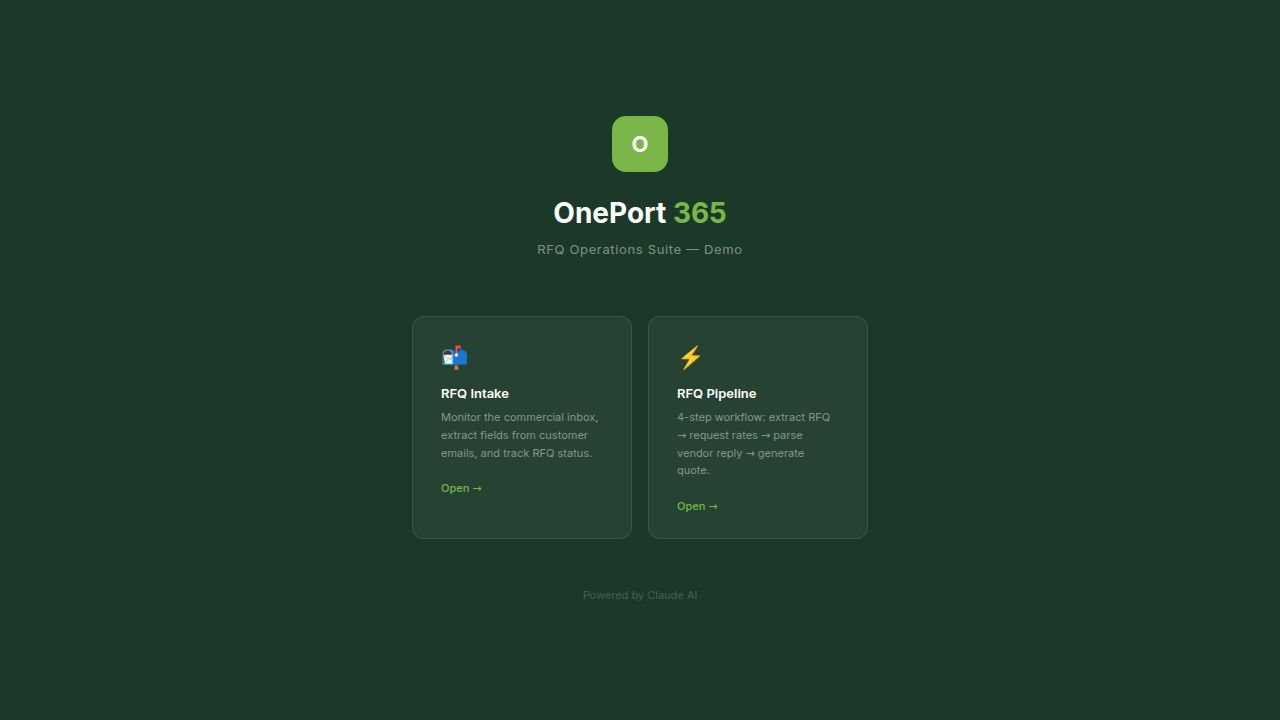
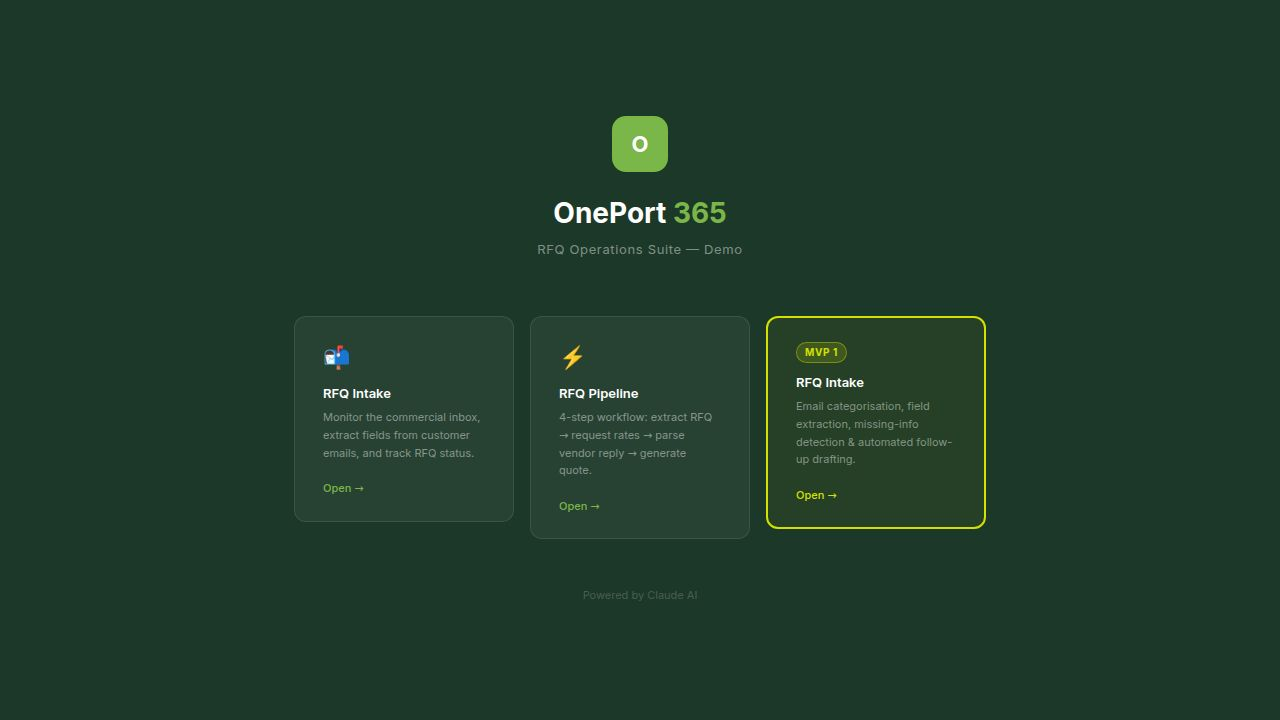
Remove WhatsApp functionality from the RFQ intake screen
Removes the WhatsApp sub-tab and its associated panel from the `mvp1.html` file, streamlining the RFQ intake process to focus solely on email.

Replit-Commit-Author: Agent
Replit-Commit-Session-Id: 79308cd2-2ce2-4007-aba9-8736e2c88821
Replit-Commit-Checkpoint-Type: full_checkpoint
Replit-Commit-Event-Id: e4b37c88-a475-481b-830e-7d197740af4b
Replit-Commit-Screenshot-Url: https://storage.googleapis.com/screenshot-production-us-central1/84b234a3-4863-4cd3-836d-2379e2e94260/79308cd2-2ce2-4007-aba9-8736e2c88821/TV8fpdU
Replit-Helium-Checkpoint-Created: true

diff --git a/artifacts/oneport365/public/mvp1.html b/artifacts/oneport365/public/mvp1.html
@@ -277,14 +277,6 @@ tr.trow.sel td{background:#eef6e6}
       <div style="display:flex;flex-direction:column;flex:1;min-height:0;overflow:hidden;width:100%">
 
         <!-- SUB-TABS -->
-        <div style="background:#fff;border-bottom:1px solid #e4e8e4;display:flex;align-items:center;padding:0 16px;gap:0;flex-shrink:0">
-          <div id="sub-email" onclick="showRFQSub('email')" style="padding:0 16px;height:38px;display:flex;align-items:center;gap:7px;font-size:12px;font-weight:600;color:#5a9132;cursor:pointer;border-bottom:2px solid #7AB648;white-space:nowrap">
-            ✉ Email <span style="font-size:10px;padding:1px 6px;border-radius:10px;background:#7AB648;color:#fff;font-weight:600">3</span>
-          </div>
-          <div id="sub-whatsapp" onclick="showRFQSub('whatsapp')" style="padding:0 16px;height:38px;display:flex;align-items:center;gap:7px;font-size:12px;font-weight:500;color:#8a9e8a;cursor:pointer;border-bottom:2px solid transparent;white-space:nowrap">
-            <span style="color:#25D366">●</span> WhatsApp <span style="font-size:10px;padding:1px 6px;border-radius:10px;background:rgba(0,0,0,.07);color:#4a5e4a;font-weight:600">5</span>
-          </div>
-        </div>
 
         <!-- EMAIL SUB-PANEL -->
         <div id="rfq-sub-email" style="display:flex;flex:1;min-height:0;overflow:hidden">
@@ -424,56 +416,6 @@ tr.trow.sel td{background:#eef6e6}
 
         </div><!-- end email sub-panel -->
 
-        <!-- WHATSAPP SUB-PANEL -->
-        <div id="rfq-sub-whatsapp" style="display:none;flex:1;min-height:0;overflow:hidden">
-          <div class="col-inbox" style="width:300px;border-right:1px solid #e4e8e4;background:#fff;display:flex;flex-direction:column;overflow:hidden">
-            <div style="padding:10px 14px;border-bottom:1px solid #e4e8e4;display:flex;align-items:center;justify-content:space-between;background:#f0f2f0">
-              <div>
-                <div style="font-size:11px;font-weight:600;color:#1a2e1a;text-transform:uppercase;letter-spacing:.05em">WhatsApp Business</div>
-                <div style="display:flex;align-items:center;gap:5px;margin-top:2px"><div style="width:6px;height:6px;border-radius:50%;background:#25D366;animation:pulse 2s ease infinite"></div><span style="font-size:10px;color:#8a9e8a">+234 XXX XXX XXXX · live</span></div>
-              </div>
-              <div style="width:32px;height:32px;border-radius:50%;background:#25D366;display:flex;align-items:center;justify-content:center;font-size:16px">💬</div>
-            </div>
-            <div style="flex:1;overflow-y:auto">
-              <div style="padding:6px 14px 4px;font-size:10px;font-weight:600;color:#8a9e8a;text-transform:uppercase;letter-spacing:.05em;background:#f8faf8;border-bottom:1px solid #e4e8e4">RFQ conversations</div>
-              <div class="email-item unread sel" onclick="selWA(0,this)"><div class="ei-top"><div style="display:flex;align-items:center;gap:8px;flex:1;min-width:0"><div style="width:34px;height:34px;border-radius:50%;background:#dcfce7;display:flex;align-items:center;justify-content:center;font-size:14px;flex-shrink:0">👩🏽</div><div style="flex:1;min-width:0"><div style="font-size:12px;font-weight:600;color:#1a2e1a">Amaka Obi</div><div style="font-size:11px;color:#8a9e8a;white-space:nowrap;overflow:hidden;text-overflow:ellipsis">pls I need rate for china to lagos...</div></div></div><div style="flex-shrink:0;text-align:right"><div style="font-size:10px;color:#25D366;font-weight:600">now</div><span class="rfq-chip" style="margin-top:3px;display:inline-block">RFQ</span></div></div></div>
-              <div class="email-item unread" onclick="selWA(1,this)"><div class="ei-top"><div style="display:flex;align-items:center;gap:8px;flex:1;min-width:0"><div style="width:34px;height:34px;border-radius:50%;background:#dbeafe;display:flex;align-items:center;justify-content:center;font-size:14px;flex-shrink:0">👨🏾</div><div style="flex:1;min-width:0"><div style="font-size:12px;font-weight:600;color:#1a2e1a">Bello Musa</div><div style="font-size:11px;color:#8a9e8a">🎤 Voice note · 0:23</div></div></div><div style="flex-shrink:0;text-align:right"><div style="font-size:10px;color:#8a9e8a">09:41</div><span class="rfq-chip" style="margin-top:3px;display:inline-block">RFQ</span></div></div></div>
-              <div class="email-item unread" onclick="selWA(2,this)"><div class="ei-top"><div style="display:flex;align-items:center;gap:8px;flex:1;min-width:0"><div style="width:34px;height:34px;border-radius:50%;background:#fef3c7;display:flex;align-items:center;justify-content:center;font-size:14px;flex-shrink:0">👩🏻</div><div style="flex:1;min-width:0"><div style="font-size:12px;font-weight:600;color:#1a2e1a">Fatima Al-Hassan</div><div style="font-size:11px;color:#8a9e8a;white-space:nowrap;overflow:hidden;text-overflow:ellipsis">📄 Forwarded: Shipment_Request.pdf</div></div></div><div style="flex-shrink:0;text-align:right"><div style="font-size:10px;color:#8a9e8a">09:28</div><span class="rfq-chip" style="margin-top:3px;display:inline-block">RFQ</span></div></div></div>
-              <div class="email-item" onclick="selWA(3,this)"><div class="ei-top"><div style="display:flex;align-items:center;gap:8px;flex:1;min-width:0"><div style="width:34px;height:34px;border-radius:50%;background:#ede9fe;display:flex;align-items:center;justify-content:center;font-size:14px;flex-shrink:0">👨🏿</div><div style="flex:1;min-width:0"><div style="font-size:12px;font-weight:500;color:#1a2e1a">Chukwuemeka Eze</div><div style="font-size:11px;color:#8a9e8a;white-space:nowrap;overflow:hidden;text-overflow:ellipsis">good morning, how much to ship tiles...</div></div></div><div style="flex-shrink:0;text-align:right"><div style="font-size:10px;color:#8a9e8a">Yesterday</div><span class="rfq-chip" style="margin-top:3px;display:inline-block">RFQ</span></div></div></div>
-              <div class="email-item" onclick="selWA(4,this)"><div class="ei-top"><div style="display:flex;align-items:center;gap:8px;flex:1;min-width:0"><div style="width:34px;height:34px;border-radius:50%;background:#fee2e2;display:flex;align-items:center;justify-content:center;font-size:14px;flex-shrink:0">👩🏾</div><div style="flex:1;min-width:0"><div style="font-size:12px;font-weight:500;color:#1a2e1a">Ngozi Traders</div><div style="font-size:11px;color:#8a9e8a;white-space:nowrap;overflow:hidden;text-overflow:ellipsis">📷 Image · forwarded quote sheet</div></div></div><div style="flex-shrink:0;text-align:right"><div style="font-size:10px;color:#8a9e8a">Yesterday</div><span class="rfq-chip" style="margin-top:3px;display:inline-block">RFQ</span></div></div></div>
-            </div>
-          </div>
-          <div class="col-email" style="background:#e5ddd5;display:flex;flex-direction:column;overflow:hidden;border-right:1px solid #e4e8e4">
-            <div style="padding:10px 16px;background:#f0f2f0;border-bottom:1px solid #d0d8d0;display:flex;align-items:center;gap:10px;flex-shrink:0">
-              <div style="width:36px;height:36px;border-radius:50%;background:#dcfce7;display:flex;align-items:center;justify-content:center;font-size:16px;flex-shrink:0" id="wa-avatar">👩🏽</div>
-              <div><div style="font-size:13px;font-weight:600;color:#1a2e1a" id="wa-name">Amaka Obi</div><div style="font-size:11px;color:#25D366" id="wa-status">online</div></div>
-              <div style="margin-left:auto;display:flex;gap:5px;align-items:center"><span class="rfq-chip">RFQ</span><span style="font-size:10px;color:#4a5e4a;padding:2px 8px;background:#fff;border-radius:10px;border:1px solid #e4e8e4" id="wa-extraction-status">reading...</span></div>
-            </div>
-            <div style="flex:1;overflow-y:auto;padding:16px;display:flex;flex-direction:column;gap:8px" id="wa-messages"></div>
-            <div style="padding:10px 14px;background:#f0f2f0;border-top:1px solid #d0d8d0;display:flex;gap:8px;align-items:flex-end;flex-shrink:0">
-              <div style="flex:1;background:#fff;border-radius:20px;padding:8px 14px;font-size:12px;color:#8a9e8a;border:1px solid #e4e8e4">Type a reply...</div>
-              <button style="width:36px;height:36px;border-radius:50%;background:#25D366;border:none;cursor:pointer;font-size:16px;flex-shrink:0">➤</button>
-            </div>
-          </div>
-          <div class="col-extract" style="background:#fafbfa;display:flex;flex-direction:column;overflow:hidden">
-            <div class="ep-hd"><span class="ep-title">Extracted Details</span><span class="ep-rfqnum" id="wa-ep-num">RFQ-2604-0042</span></div>
-            <div class="ep-body">
-              <div id="wa-ep-fields"></div>
-              <div id="wa-ep-missing-wrap"><span class="ep-section-lbl missing-lbl">Missing Info</span><div id="wa-ep-missing"></div>
-                <div class="ep-followup" id="wa-ep-followup">
-                  <div style="display:flex;align-items:center;justify-content:space-between;margin-bottom:8px"><span style="font-size:11px;font-weight:600;color:#4a5e4a">Reply draft</span><span class="ep-timer" id="wa-ep-timer">sends in 5:00</span></div>
-                  <div class="ep-draft" id="wa-ep-draft"></div>
-                  <div class="row" style="margin-top:10px">
-                    <button class="btn btn-primary btn-sm" style="flex:1" onclick="waSendNow()">Send on WhatsApp</button>
-                    <button class="btn btn-danger btn-sm" onclick="waCancel()">Cancel</button>
-                  </div>
-                </div>
-              </div>
-              <div style="margin-top:8px;padding:8px;background:#e8f5e0;border-radius:6px;font-size:10px;color:#5a9132;border:1px solid #c8e6a0">📱 Reply sent back via WhatsApp</div>
-              <div id="wa-ep-actions" style="margin-top:12px"></div>
-            </div>
-          </div>
-        </div><!-- end whatsapp sub-panel -->
 
       </div><!-- end s1 inner wrapper -->
     </div><!-- end s1 -->